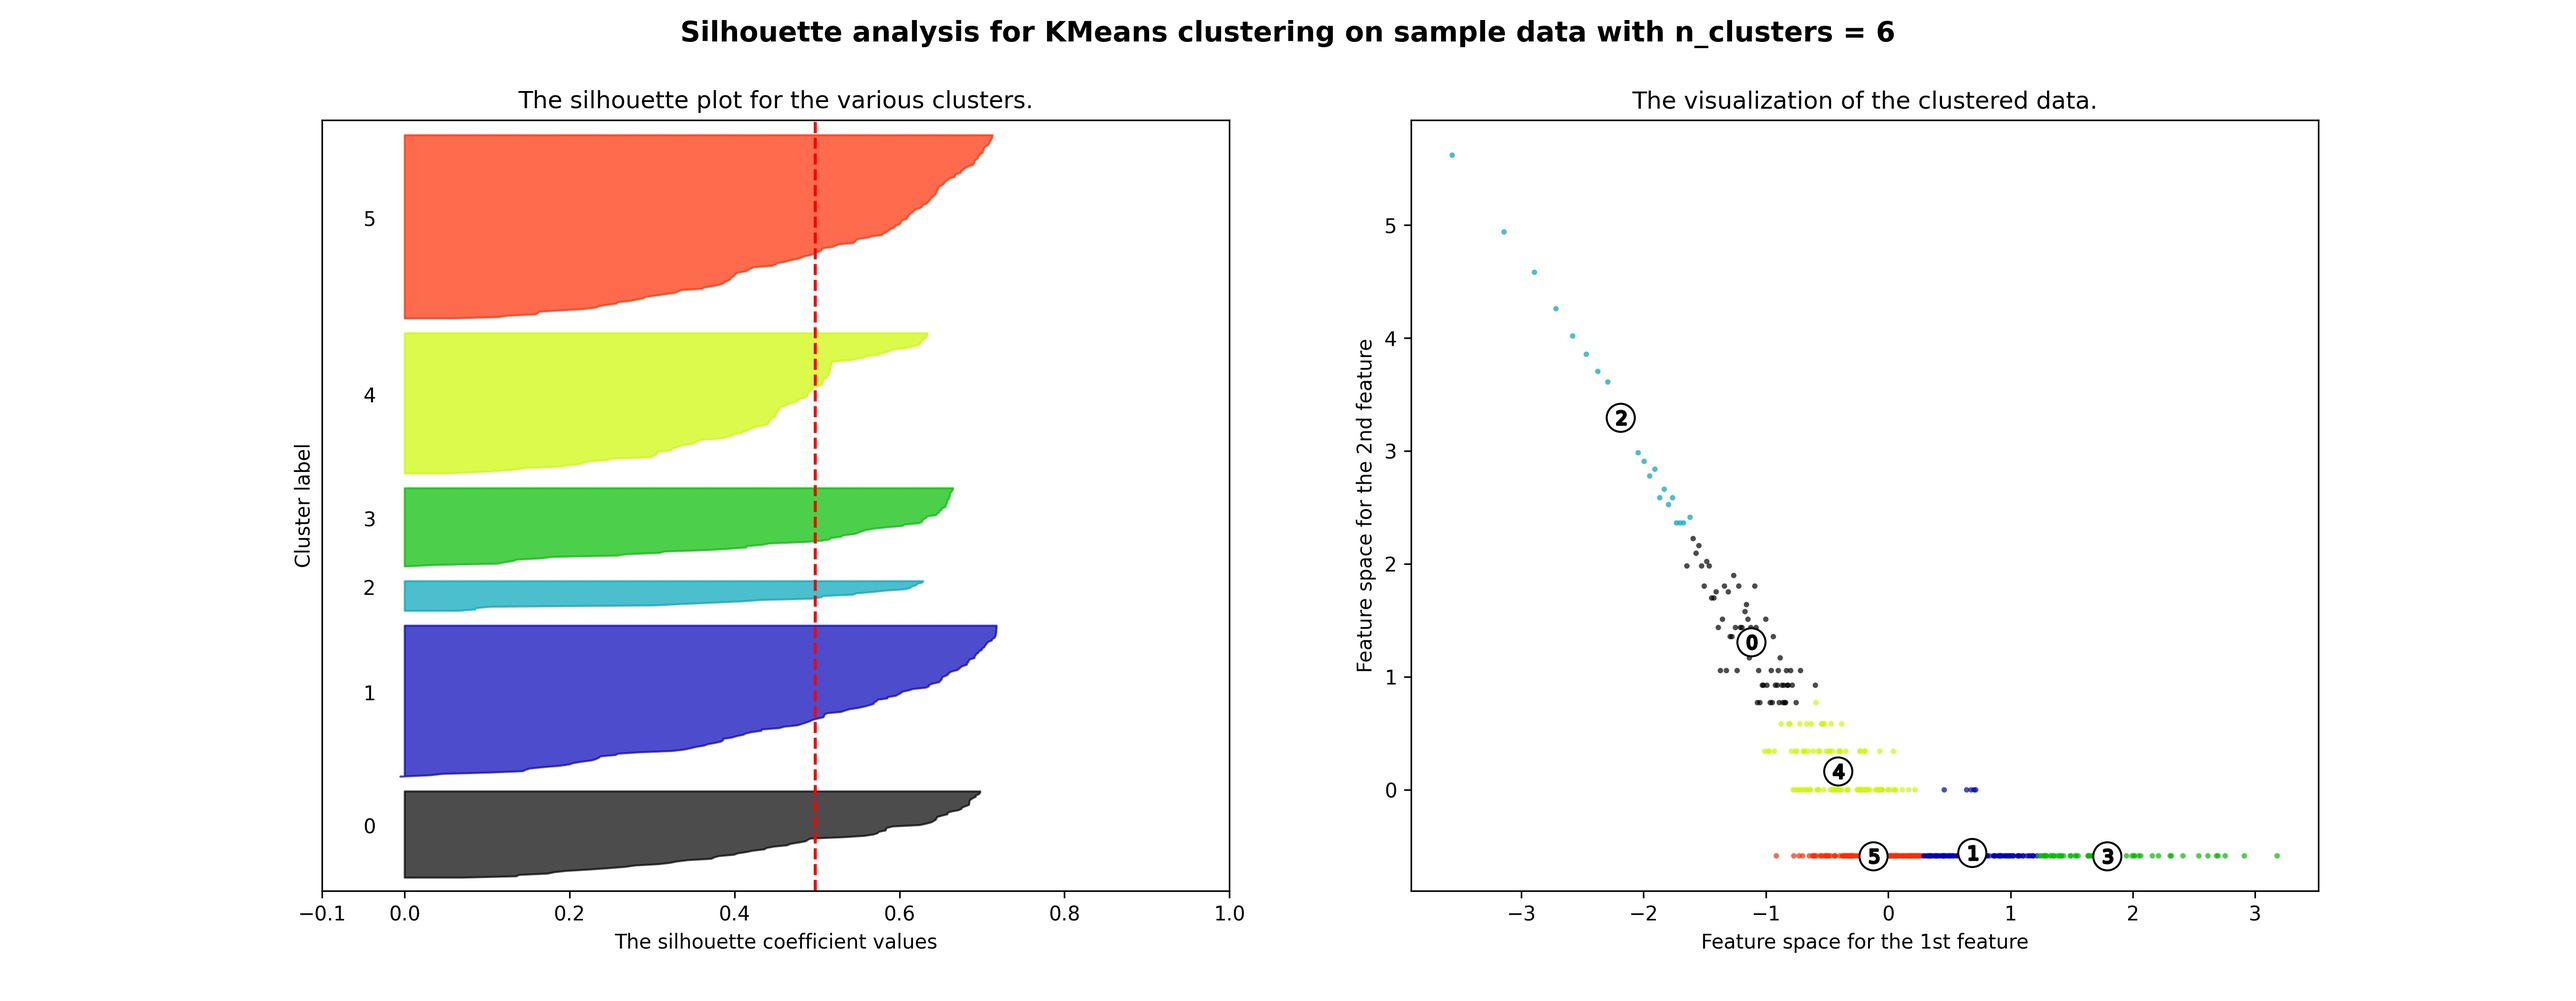
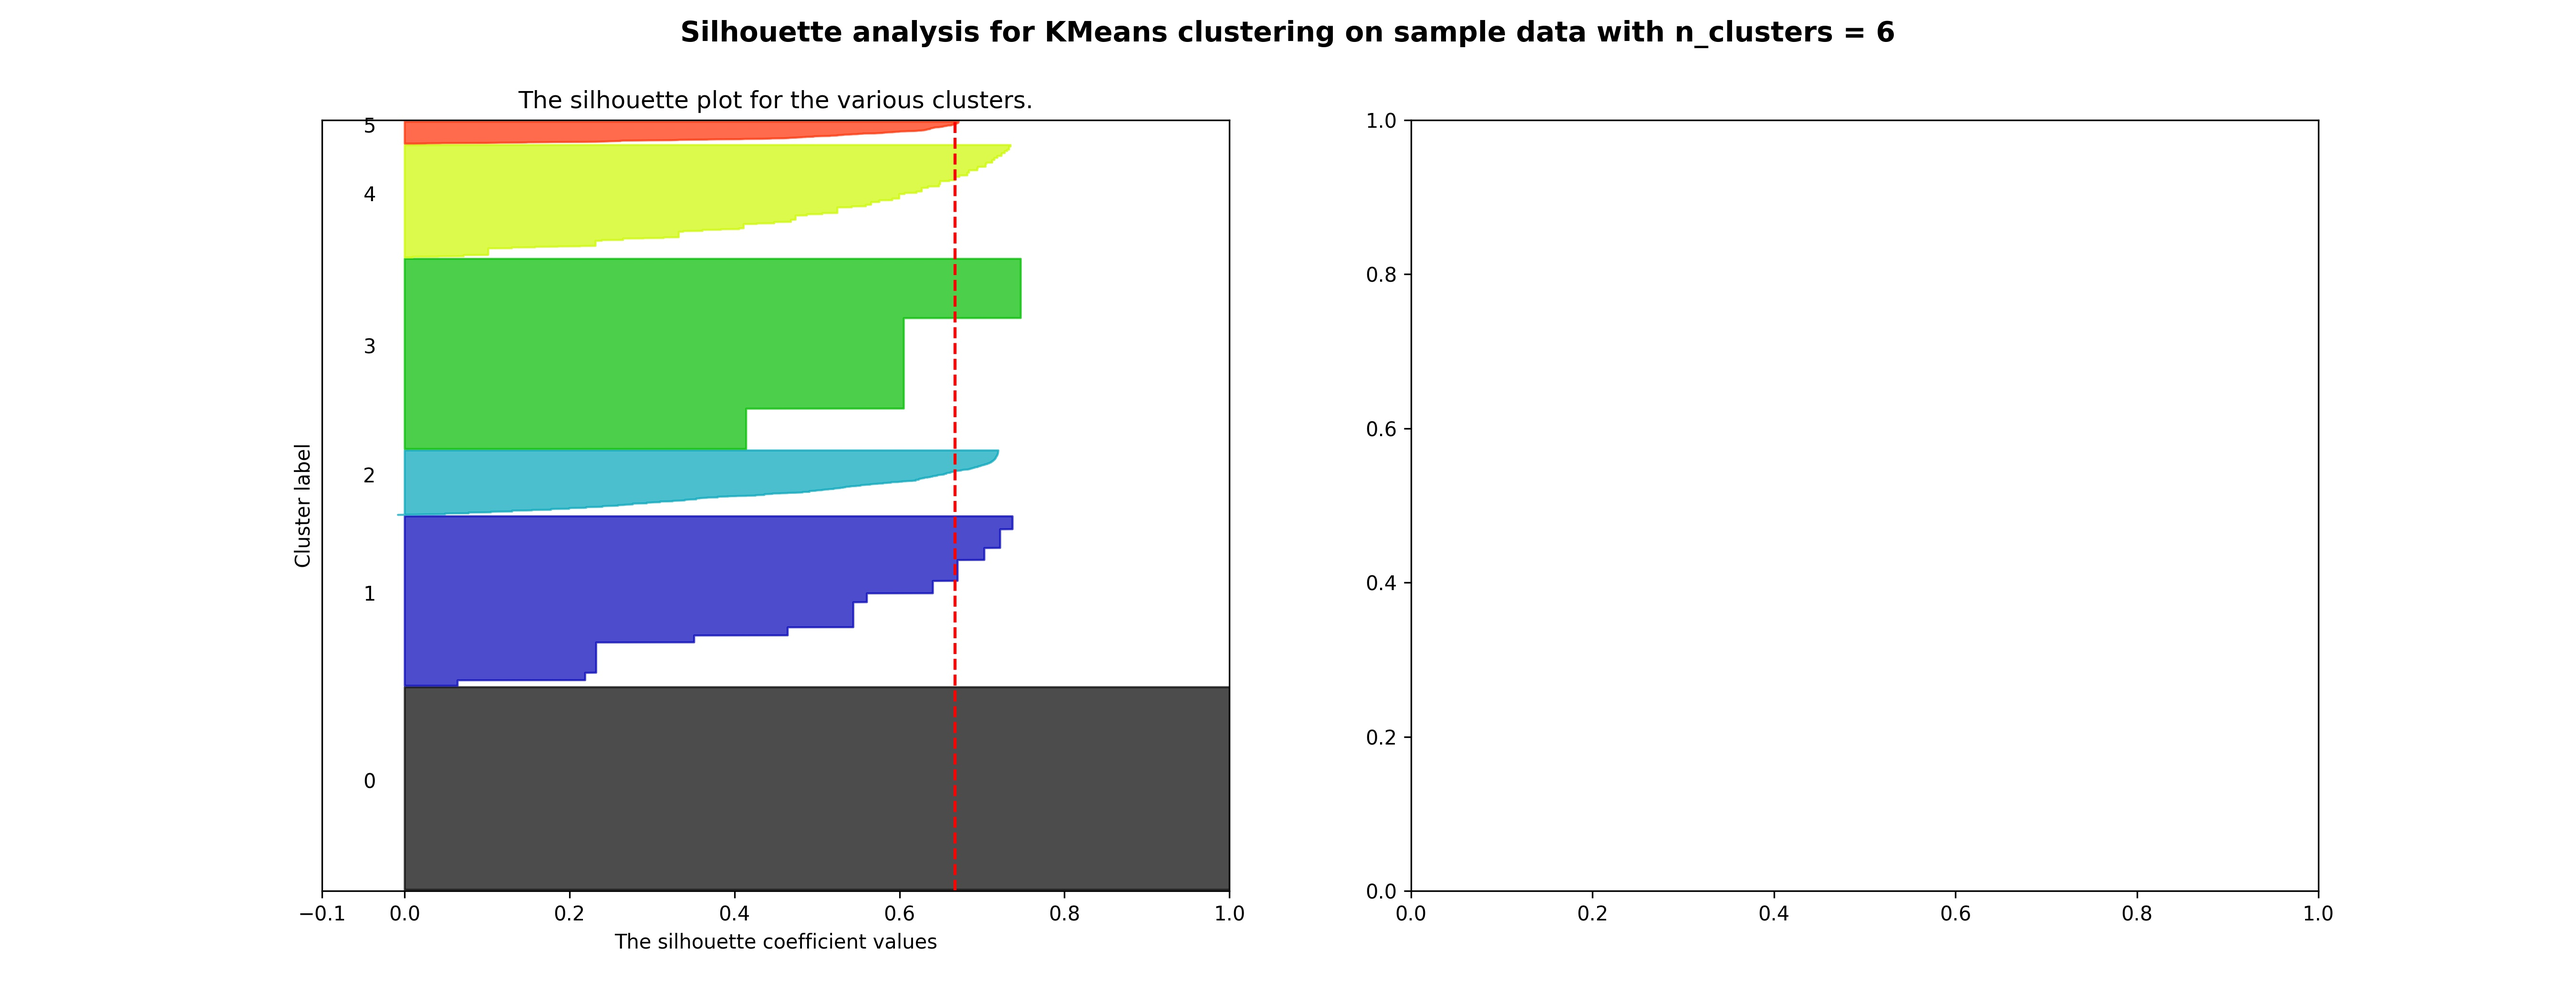
add prediction of test dataset

diff --git a/main/classifier.py b/main/classifier.py
@@ -3,6 +3,7 @@ import numpy as np
 
 from sklearn.cluster import KMeans
 from sklearn.metrics import silhouette_samples, silhouette_score
+from sklearn.neighbors import KernelDensity
 
 import matplotlib
 matplotlib.use('Agg')
@@ -10,15 +11,17 @@ import matplotlib.pyplot as plt
 import matplotlib.cm as cm
 
 from modules.gsheet_api import GsheetApi
-from functions import helpers
+from functions.helpers import Scaler, transform_data
 
 # -*- coding: utf-8 -*-
 """
 @author: Liubomyr Gavryliv
 Functions for classifying mineral locality counts into clusters/categories
+using k-means clustering and kernel density estimate
 """
 
 GsheetApi = GsheetApi()
+Scaler = Scaler()
 GsheetApi.run_main()
 
 locs = GsheetApi.locs.copy()
@@ -26,14 +29,12 @@ locs = GsheetApi.locs.copy()
 
 # Pre-process data and create a list of arrays of [x, y], where x is the locality count and y is mineral count
 
-locs_original, locs_non_scaled, locs_transformed, locs_standardized = helpers.transform_data(locs)
-
-locs_transformed = locs_transformed.to_numpy()
+raw_locality_mineral_pairs, log_locality_mineral_pairs, scaled_locality_1d = transform_data(locs, Scaler)
 
 
 # Original non-scaled data scatter-plot
 
-plt.scatter(locs_non_scaled['locality_counts'], locs_non_scaled['mineral_count'], color='#5FD6D1', marker='o', s=20,
+plt.scatter(raw_locality_mineral_pairs['locality_counts'], raw_locality_mineral_pairs['mineral_count'], color='#5FD6D1', marker='o', s=20,
             edgecolors='black', linewidths=0.1)
 
 plt.xlabel('Locality count')
@@ -47,33 +48,33 @@ plt.close()
 
 # Log-transformed data scatter-plot
 
-plt.scatter(locs_standardized['locality_counts'], locs_standardized['mineral_count'], color='#5FD6D1', marker='o', s=20,
+plt.scatter(log_locality_mineral_pairs['locality_counts'], log_locality_mineral_pairs['mineral_count'], color='#5FD6D1', marker='o', s=20,
             edgecolors='black', linewidths=0.1)
 
 plt.xlabel('Log (Locality count)')
 plt.ylabel('Log (Mineral count)')
 plt.title('Mineral - Locality pairs')
 
-plt.savefig(f"figures/mineral_locality_pairs_log_transformed.jpeg", dpi=300, format='jpeg')
+plt.savefig(f"figures/log_mineral_locality_pairs.jpeg", dpi=300, format='jpeg')
 
 plt.close()
 
 
-# Find optimum number of clusters
+# Find optimum number of clusters for k-Means
 
-range_n_clusters = range(2, 15)
+N_CLUSTERS = range(2, 15)
 
 ## Elbow method
 
 sum_of_squared_distances = []
 
-for n_clusters in range_n_clusters:
+for n_clusters in N_CLUSTERS:
     km = KMeans(n_clusters=n_clusters)
-    km = km.fit(locs_transformed)
+    km = km.fit(scaled_locality_1d)
     sum_of_squared_distances.append(km.inertia_)
 
 
-plt.plot(range_n_clusters, sum_of_squared_distances, color='green', marker='o',
+plt.plot(N_CLUSTERS, sum_of_squared_distances, color='green', marker='o',
          linestyle='solid', linewidth=1, markersize=2)
 
 plt.xlabel('Number of clusters')
@@ -87,7 +88,7 @@ plt.close('all')
 
 ## Silhouette method
 
-for n_clusters in range_n_clusters:
+for n_clusters in range(2,15):
 
     # Create a subplot with 1 row and 2 columns
     fig, (ax1, ax2) = plt.subplots(1, 2)
@@ -102,19 +103,19 @@ for n_clusters in range_n_clusters:
     # The (n_clusters+1)*10 is for inserting blank space between silhouette
     # plots of individual clusters, to demarcate them clearly.
 
-    ax1.set_ylim([0, len(locs_transformed) + (n_clusters + 1) * 10])
+    ax1.set_ylim([0, len(scaled_locality_1d) + (n_clusters + 1) * 10])
 
     # Initialize the clusterer with n_clusters value and a random generator
     # seed of 10 for reproducibility.
 
     clusterer = KMeans(n_clusters=n_clusters, random_state=10)
-    cluster_labels = clusterer.fit_predict(locs_transformed)
+    cluster_labels = clusterer.fit_predict(scaled_locality_1d)
 
     # The silhouette_score gives the average value for all the samples.
     # This gives a perspective into the density and separation of the formed
     # clusters
 
-    silhouette_avg = silhouette_score(locs_transformed, cluster_labels)
+    silhouette_avg = silhouette_score(scaled_locality_1d, cluster_labels)
     print(
         "For n_clusters =",
         n_clusters,
@@ -123,7 +124,7 @@ for n_clusters in range_n_clusters:
     )
 
     # Compute the silhouette scores for each sample
-    sample_silhouette_values = silhouette_samples(locs_transformed, cluster_labels)
+    sample_silhouette_values = silhouette_samples(scaled_locality_1d, cluster_labels)
 
     y_lower = 10
     for i in range(n_clusters):
@@ -166,7 +167,7 @@ for n_clusters in range_n_clusters:
     # 2nd Plot showing the actual clusters formed
     colors = cm.nipy_spectral(cluster_labels.astype(float) / n_clusters)
     ax2.scatter(
-        locs_transformed[:, 0], locs_transformed[:, 1], marker=".", s=30, lw=0, alpha=0.7, c=colors, edgecolor="k"
+        scaled_locality_1d[:, 0], scaled_locality_1d[:, 1], marker=".", s=30, lw=0, alpha=0.7, c=colors, edgecolor="k"
     )
 
     # Labeling the clusters
@@ -201,45 +202,68 @@ for n_clusters in range_n_clusters:
     plt.close('all')
 
 
-# K-means classification 2-D
-
-N_CLUSTERS = 4
-
-kmeans = KMeans(init='k-means++', n_clusters=N_CLUSTERS, n_init=1, max_iter=300)
-
-kmeans.fit(locs_transformed)
-
-pred_classes = kmeans.predict(locs_transformed)
-
-# add labels to original data
-for n_cluster in range(N_CLUSTERS):
-    locs_non_scaled.loc[locs_non_scaled.index.isin(*np.where(pred_classes == n_cluster)), 'cluster'] = n_cluster
-
-## Scatter plot of the classification
-
-plt.scatter(locs_transformed[:, 0], locs_transformed[:, 1], c=pred_classes, s=50, cmap='viridis')
-
-centers = kmeans.cluster_centers_
-plt.scatter(centers[:, 0], centers[:, 1], c='black', s=200, alpha=0.5)
-
-plt.savefig(f"figures/k-means/classification_output.jpeg", dpi=300, format='jpeg')
-
-plt.close()
-
-
-## One-dimensional classification 1-D
+## K-means classification 1-D (frequencies of normalized and scaled locality counts)
 
 N_CLUSTERS = 6
 
-kmeans = KMeans(n_clusters=N_CLUSTERS).fit(locs['locality_counts'].to_numpy(dtype=int).reshape(-1,1))
+kmeans = KMeans(n_clusters=N_CLUSTERS)
 
-pred_classes = kmeans.predict(locs['locality_counts'].to_numpy(dtype=int).reshape(-1,1))
+kmeans.fit(scaled_locality_1d)
+
+pred_classes = kmeans.predict(scaled_locality_1d)
 
 for n_cluster in range(N_CLUSTERS):
     locs.loc[locs.index.isin(*np.where(pred_classes == n_cluster)), 'cluster'] = n_cluster
 
 
 plt.scatter(locs['locality_counts'].to_numpy(dtype=int).reshape(-1,1)[:, 0], locs.index.to_numpy(), c=pred_classes, s=50, cmap='viridis')
+
+plt.savefig(f"figures/k-means/classification_output.jpeg", dpi=300, format='jpeg')
+
+plt.close()
+
+
+### Get decision boundaries for each cluster by running a prediction
+
+# Step size of the test set. Decrease to increase the quality of the VQ.
+h = 0.03
+
+# These are already scaled to locs_min=1 and locs_max set above, cause the source of data remains the same
+x_min, x_max = scaled_locality_1d.min(), scaled_locality_1d.max()
+
+xx = np.arange(x_min, x_max, h)
+
+# Obtain labels for each point in test array. Use last trained model.
+
+xx_predicated = kmeans.predict(xx.reshape(-1,1))
+
+log_descaled = Scaler.descale_features(xx.reshape(-1,1))
+
+descaled = np.exp(log_descaled)
+descaled = np.sort(descaled, axis=0)
+descaled = descaled.ravel()
+
+locs_test = pd.DataFrame({ 'locality_counts': descaled, 'predicted': xx_predicated })
+
+# Rare minerals
+# 1
+# 2-4
+# 5-16
+
+# Questionable minerals
+# 17-75
+
+# Widespread minerals
+# 76-589
+# > 593
+
+# kernel density estimation (frequencies of raw locality counts)
+
+kde = KernelDensity(kernel='gaussian', bandwidth=0.5).fit(locs_1d)
+
+s = np.linspace(0,80000)
+e = kde.score_samples(s.reshape(-1,1))
+plt.plot(s, e)
 
 plt.savefig(f"figures/k-means/classification_output.jpeg", dpi=300, format='jpeg')
 

diff --git a/README.md b/README.md
@@ -1,2 +1,6 @@
-# mineral-rarity
-A code we use to answer questions about minerals rarity and build a statistical description of rarities. Using the open-access IMA data.
+# Mineral rarity analysis
+
+A code we are using to answer questions about minerals rarity and build a classification and
+a **taxonomy of mineral rarity**. 
+
+Using the open-access IMA data.
